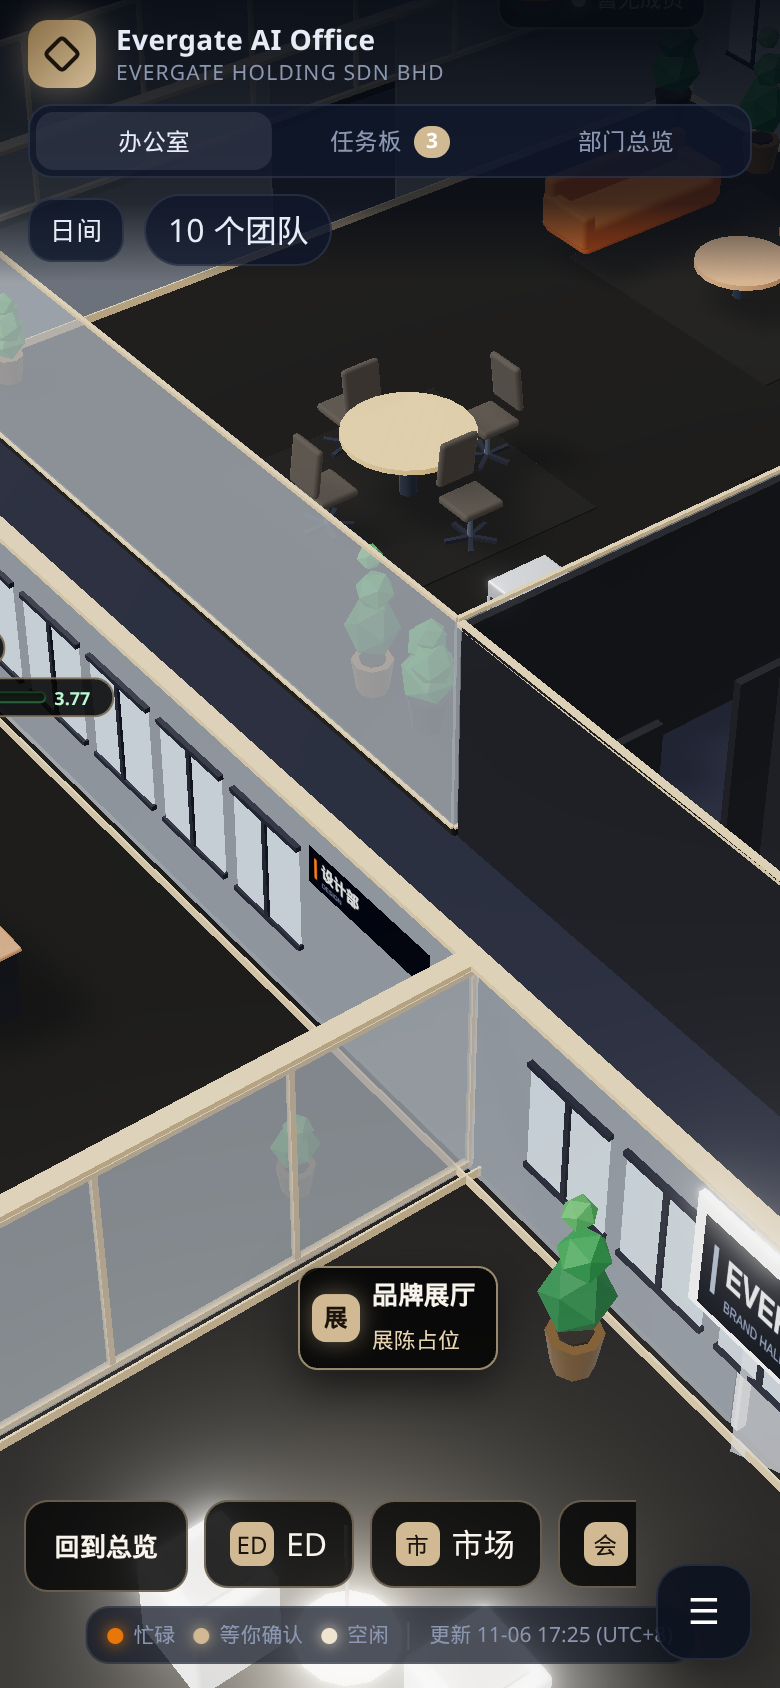
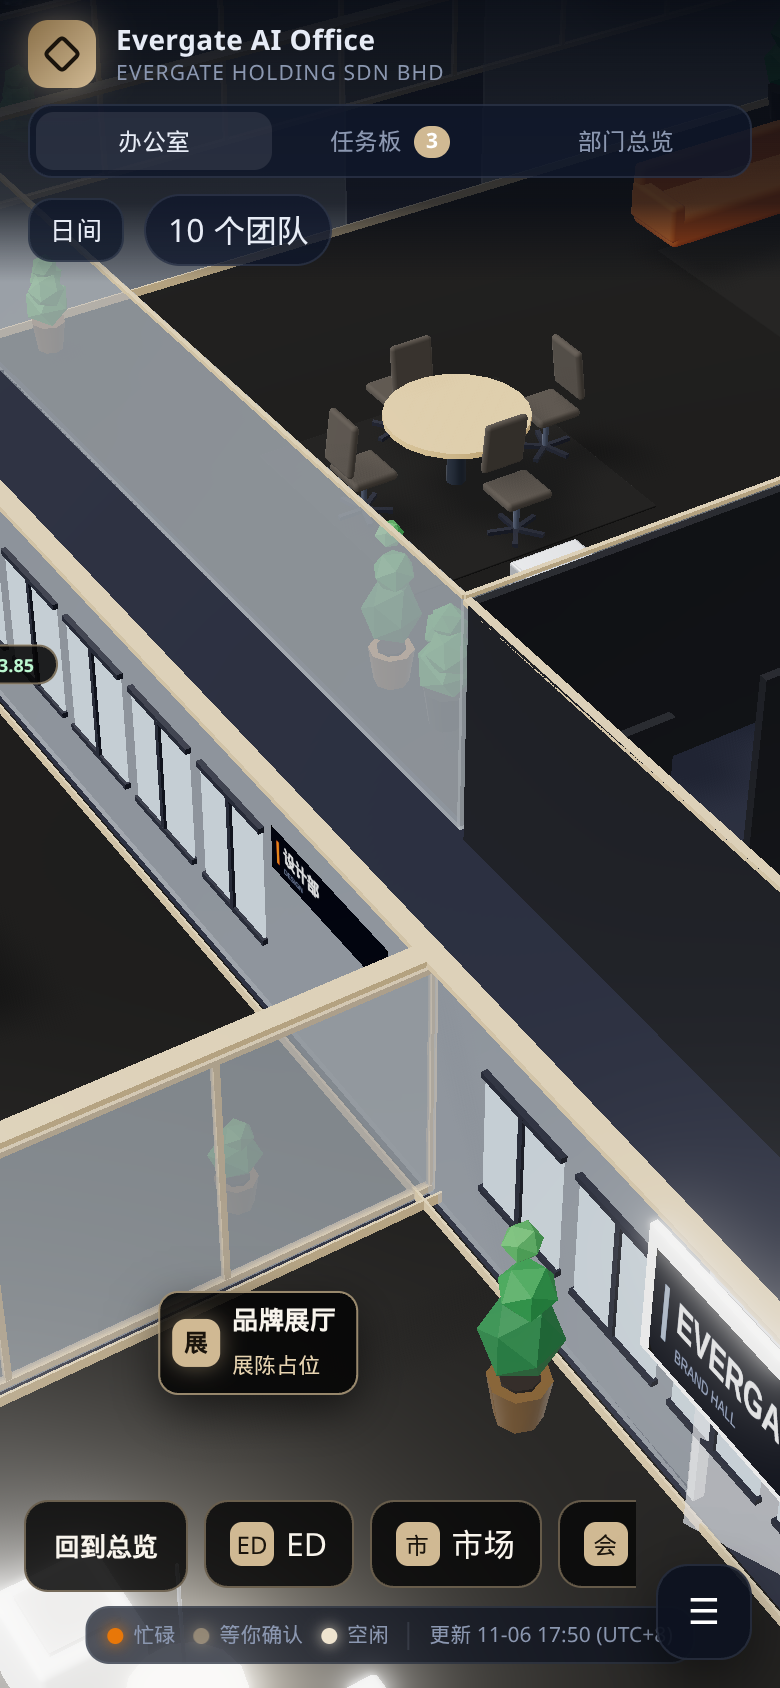
Level the campus floor and move 投资部 north. (#18)
Streets are one dark layer at the same height as the rooms, including the corridor outside 审查部, 市场部's north extension, and the entrance in front of the news wall. 投资部 now occupies the cell north of ED at the same area as 市场部, and the old cell is an empty office labeled 空置. The archive is renamed 资料库: shelves and locked cabinets in the ordinary file room, server racks in the confidential room.

diff --git a/src/scene.js b/src/scene.js
@@ -360,12 +360,10 @@ function buildGreenery(parent) {
     if (def.door === 'west') corners.splice(2, 1);
     corners.forEach(([lx, lz, s, pot, h], i) => add(def.x + lx, def.z + lz, s, (pot + i) % 2, h, FLOOR_H));
   }
-  add(-6.6, 17.5, 1.45, 1, 2);
-  add(6.6, 17.5, 1.3, 0, 2);
-  add(-2.35, 17.9, 0.48, 1, 0);
-  add(2.35, 17.9, 0.48, 0, 0);
-  add(-3.5, 15.4, 0.9, 0, 1);
-  add(3.5, 15.4, 0.9, 1, 1);
+  add(-6.6, 17.5, 1.45, 1, 2, FLOOR_H);
+  add(6.6, 17.5, 1.3, 0, 2, FLOOR_H);
+  add(-4.2, 21.3, 0.9, 0, 1, FLOOR_H);
+  add(4.2, 21.3, 0.9, 1, 1, FLOOR_H);
   const potGeo = new THREE.CylinderGeometry(0.2, 0.15, 0.34, 8);
   const soilGeo = new THREE.CylinderGeometry(0.15, 0.15, 0.05, 8);
   const leafGeo = new THREE.IcosahedronGeometry(0.26, 0);
@@ -681,7 +679,7 @@ function furnishArchive(g, def, dyn, R) {
   box(g, 0.03, 0.012, D - 0.3, splitX, 0.006, 0, trim, { cast: false });
 
   doorFrame(g, splitX, genZ, Math.PI / 2, doorW, 2.05);
-  doorSign(g, splitX - 0.12, 2.15, genZ, '普通资料库', 'GENERAL', -Math.PI / 2);
+  doorSign(g, splitX - 0.12, 2.15, genZ, '普通文件房', 'GENERAL', -Math.PI / 2);
   // Locked confidential door on the south side of the lobby.
   box(g, 0.07, 2.02, doorW - 0.1, splitX - 0.02, 0, secZ, M('#141a28', { r: .38, m: .4 }), { cast: false });
   box(g, 0.09, 2.1, 0.06, splitX - 0.02, 0, secZ - doorW / 2 + 0.02, trim, { cast: false });
@@ -694,7 +692,7 @@ function furnishArchive(g, def, dyn, R) {
   const face = -Math.PI / 2;
   namePlate(g, splitX - 0.12, 1.55, secZ + doorW / 2 + 0.38, 'ED', '连署', face);
   namePlate(g, splitX - 0.12, 1.55, secZ - doorW / 2 - 0.38, '私人助理', '连署', face);
-  doorSign(g, splitX - 0.12, 2.15, secZ, '机密资料库', 'CONFIDENTIAL', face);
+  doorSign(g, splitX - 0.12, 2.15, secZ, '机密文件房', 'CONFIDENTIAL', face);
   confidentialNotice(g, splitX - 0.14, 1.15, secZ, face);
   doorSign(g, -W / 2 + 0.2, 1.85, -1.15, '客厅', 'LOBBY', face);
 
@@ -728,22 +726,24 @@ function furnishArchive(g, def, dyn, R) {
   R.guard = guard;
   facilityTag(guard, '保安', '值守中');
 
-  bookshelf(g, (splitX + W / 2) / 2, -D / 2 + 0.45, 0, Math.min(2.2, W * 0.28), 1.7);
-  bookshelf(g, W / 2 - 0.4, D * 0.25, -Math.PI / 2, Math.min(1.6, D * 0.3), 1.7);
-  fileCabinet(g, (splitX + W / 2) / 2 - 0.8, D / 2 - 0.5, Math.PI, true);
-  fileCabinet(g, (splitX + W / 2) / 2 + 0.8, D / 2 - 0.5, Math.PI, true);
-  const rackX = splitX + (W / 2 - splitX) * 0.55;
-  const slots = [
-    { x: rackX - 0.7, z: -D / 2 + 0.85, ry: 0 },
-    { x: rackX + 0.7, z: -D / 2 + 0.85, ry: 0 },
-    { x: rackX - 0.7, z: D / 2 - 1.35, ry: Math.PI },
-    { x: rackX + 0.7, z: D / 2 - 1.35, ry: Math.PI },
-  ];
+  // 普通文件房: shelves and locked cabinets. The door aisle stays clear.
+  const shelfX = [0.05, 1.7, 3.2];
+  for (const x of shelfX) bookshelf(g, x, -D / 2 + 0.42, 0, 1.45, 1.85);
+  bookshelf(g, W / 2 - 0.38, -2.45, -Math.PI / 2, 1.25, 1.85);
+  bookshelf(g, W / 2 - 0.38, -1.05, -Math.PI / 2, 1.15, 1.85);
+  for (const x of [0.35, 1.25, 2.15, 3.05]) fileCabinet(g, x, -0.48, Math.PI, true);
+  plant(g, W / 2 - 0.55, -0.55, 0.7, 0);
+  // 机密文件房: packed server racks, with a lane in from the lobby door.
+  const slots = [];
+  for (let x = 0.15; x <= 4.15; x += 0.8) {
+    for (let z = 0.7; z <= 3.55; z += 0.95) {
+      if (z < secZ + 0.15 && x < 1.15) continue;
+      slots.push({ x: +x.toFixed(3), z: +z.toFixed(3), ry: z < secZ ? 0 : Math.PI });
+    }
+  }
   R.rackLeds = archiveRacks(g, slots);
-  const glowN = new THREE.PointLight('#7eb6d6', 0.45, 6, 1.6);
-  glowN.position.set(rackX, 2.0, -D * 0.28); g.add(glowN);
-  const glowS = new THREE.PointLight('#7eb6d6', 0.4, 6, 1.6);
-  glowS.position.set(rackX, 2.0, D * 0.28); g.add(glowS);
+  const glowS = new THREE.PointLight('#7eb6d6', 0.45, 7, 1.6);
+  glowS.position.set(2.2, 2.05, secZ); g.add(glowS);
   pendant(g, splitX - 1.4, 0);
   seed = savedSeed;
 }
@@ -890,13 +890,9 @@ let pendantGlow = null;
 function roomShell(root, def, ctx) {
   const g = new THREE.Group(); g.position.set(def.x, FLOOR_H, def.z); root.add(g);
   const { w, d } = def;
-  const slab = new THREE.Mesh(rboxG(w, FLOOR_H, d, 0.05), M(FLOOR_BLACK, { r: .9, m: .04 }));
-  slab.position.y = -FLOOR_H / 2; slab.receiveShadow = true; g.add(slab);
-  const fl = new THREE.Mesh(new THREE.PlaneGeometry(w - 0.12, d - 0.12), M(FLOOR_BLACK, { r: .88, m: .06 }));
-  fl.rotation.x = -Math.PI / 2; fl.position.y = 0.004; fl.receiveShadow = true; g.add(fl);
-  const rail = goldFrame();
-  box(g, w, 0.025, 0.035, 0, 0, d / 2 + 0.01, rail, { cast: false });
-  box(g, 0.035, 0.025, d, w / 2 + 0.01, 0, 0, rail, { cast: false });
+  // Interior finish only, inset and flush with the campus floor. No raised slab.
+  const fl = new THREE.Mesh(new THREE.PlaneGeometry(w - 0.16, d - 0.16), M(FLOOR_BLACK, { r: .88, m: .06 }));
+  fl.rotation.x = -Math.PI / 2; fl.position.y = 0.006; fl.receiveShadow = true; g.add(fl);
 
   const wallMat = smokeGlass();
   const trim = goldFrame();
@@ -981,10 +977,11 @@ function labelEl(def) {
 export const LAYOUT = {
   // North street wall stays; only the outer north wall moves.
   market:   { x: -13.5, z: -14.475, w: 10, d: 13.45, icon: '市', sign: '市场部', signSub: 'MARKETING & RESEARCH' },
-  // Old 法务部 cell, kept as an empty office. Not a department.
-  vacant:   { x: 0, z: -12, w: 11, d: 8.5, icon: '空', color: '#D0B993', minor: true, sign: '空置', signSub: 'RESERVED', label: '空置' },
+  // Former 投资部 cell. Walled office, no department.
+  vacant:   { x: -13.5, z: 0, w: 10, d: 8.5, icon: '空', color: '#D0B993', minor: true, sign: '空置', signSub: 'EMPTY OFFICE', label: '空置' },
   legal:    { x: -30.2, z: -8, w: 17.2, d: 14.0, icon: '法', sign: '法务部', signSub: 'LEGAL' },
-  invest:   { x: -13.5, z: 0,   w: 10, d: 8.5, icon: '投', sign: '投资部', signSub: 'INVESTMENT' },
+  // ED's column. South wall locked at z=-7.75. Area matches 市场部 (10×13.45), not larger.
+  invest:   { x: 0, z: -13.8636, w: 11, d: 12.2273, icon: '投', sign: '投资部', signSub: 'INVESTMENT' },
   ed:       { x: 0,     z: 0,   w: 11, d: 9,   icon: 'ED', walls: 'glass', sign: 'ED 中央指挥室', signSub: 'COMMAND CENTER' },
   // One rectangle: old 信息部 + old 策划部 cell + the E-W street in this column only.
   info:     { x: 13.5,  z: -6.025, w: 10, d: 20.45, icon: '信', sign: '信息部', signSub: 'AI NEWS & INFO' },
@@ -992,7 +989,7 @@ export const LAYOUT = {
   logistics:{ x: 0,     z: 13.875, w: 11, d: 12.25, icon: '物', sign: '物流部', signSub: 'LOGISTICS' },
   privfin:  { x: 13.5,  z: 12,  w: 10, d: 8.5, icon: '私', walls: 'glass', private: true, sign: '私人助理', signSub: 'PRIVATE · 仅 EDWARD' },
   lounge:   { x: 25.6, z: 0,   w: 9.4, d: 11, icon: '休', color: '#E87708', door: 'west', sign: '休息室', signSub: 'LOUNGE', label: '休息室' },
-  archive:  { x: 25.6, z: -12, w: 9.4, d: 8.2, icon: '档', color: '#D0B993', door: 'west', sign: '档案室', signSub: 'ARCHIVE', label: '档案室' },
+  archive:  { x: 25.6, z: -12, w: 9.4, d: 8.2, icon: '资', color: '#D0B993', door: 'west', sign: '资料库', signSub: 'RECORDS', label: '资料库' },
   // Shares 会计部's south wall. Separate room, entered from the east corridor.
   review:   { x: -13.5, z: 19.55, w: 10, d: 6.6, icon: '审', color: '#D0B993', sign: '审查部', signSub: 'REVIEW', label: '审查部' },
   meeting:  { x: -28, z: 8, w: 13.2, d: 11.8, icon: '议', color: '#D0B993', sign: '会议室', signSub: 'MEETING', label: '会议室' },
@@ -1018,11 +1015,11 @@ export function buildOffice(scene, teams) {
   const ground = new THREE.Mesh(new THREE.PlaneGeometry(140, 140), new THREE.MeshStandardMaterial({ map: ft, roughness: .9, color: '#ffffff' }));
   ground.rotation.x = -Math.PI / 2; ground.position.y = -0.08; ground.receiveShadow = true; root.add(ground);
   // One campus slab under every room and corridor. Later wings are not separate pads.
-  const campusW = 88, campusD = 54, campusX = 1.2, campusZ = 2.2;
-  const campus = new THREE.Mesh(rboxG(campusW, 0.12, campusD, 0.08), M('#161d30', { r: .7 }));
-  campus.position.set(campusX, -0.04, campusZ); campus.receiveShadow = true; campus.userData.ground = true; root.add(campus);
+  const campusW = 88, campusD = 54, campusX = 1.2, campusZ = 2.2, campusH = 0.16;
+  const campus = new THREE.Mesh(rboxG(campusW, campusH, campusD, 0.08), M('#161d30', { r: .7 }));
+  campus.position.set(campusX, FLOOR_H - campusH / 2, campusZ); campus.receiveShadow = true; campus.userData.ground = true; root.add(campus);
   const edge = B(GOLD, { op: .32 });
-  const edgeY = 0.025;
+  const edgeY = FLOOR_H + 0.012;
   for (const [w, d, x, z] of [
     [campusW, .05, campusX, campusZ + campusD / 2],
     [campusW, .05, campusX, campusZ - campusD / 2],
@@ -1034,41 +1031,44 @@ export function buildOffice(scene, teams) {
   const sky = new THREE.Mesh(new THREE.PlaneGeometry(150, 64), new THREE.MeshBasicMaterial({ map: skylineTexture() }));
   sky.position.set(0, 16, -34); root.add(sky);
   const sky2 = sky.clone(); sky2.position.set(-70, 26, 8); sky2.rotation.y = Math.PI / 2; root.add(sky2);
-  // south gate on the central axis, due south of 物流部: wordmark above the news band
+  // Entry corridor is width W = 3 south of 物流部. The sign sits on that corridor, not in the middle of it.
+  const newsFace = 23;
+  const newsWallZ = newsFace + 0.09;
   const logo = new THREE.Mesh(new THREE.PlaneGeometry(6.6, 1.85), new THREE.MeshBasicMaterial({ map: logoTexture() }));
-  logo.position.set(0, 2.55, 23.5); root.add(logo);
-  box(staticG, 8.4, 3.7, 0.18, 0, 0, 23.25, M('#121a28', { r: .6 }), { cast: false });
-  box(staticG, 2.4, 1.05, 0.7, 0, 0, 20.7, M('#d9c7a6', { r: .55 }), { round: 0.04 });
-  box(staticG, 2.2, 0.06, 0.55, 0, 1.05, 20.7, M('#f4efe6', { r: .4 }), { cast: false });
-  cyl(staticG, 0.12, 0.1, 0.22, -0.7, 1.11, 20.7, M('#111827', { m: .4 }), 10, { cast: false });
-  plant(staticG, -4.6, 22.3, 1.25, 2); plant(staticG, 4.6, 22.3, 1.15, 0);
+  logo.position.set(0, 2.55, newsWallZ + 0.25); root.add(logo);
+  box(staticG, 8.4, 3.7, 0.18, 0, 0, newsWallZ, M('#121a28', { r: .6 }), { cast: false });
+  const plinthZ = newsFace - 0.45;
+  box(staticG, 2.4, 1.05, 0.7, 0, 0, plinthZ, M('#d9c7a6', { r: .55 }), { round: 0.04 });
+  box(staticG, 2.2, 0.06, 0.55, 0, 1.05, plinthZ, M('#f4efe6', { r: .4 }), { cast: false });
+  cyl(staticG, 0.12, 0.1, 0.22, -0.7, 1.11, plinthZ, M('#111827', { m: .4 }), 10, { cast: false });
+  plant(staticG, -4.6, newsFace - 0.85, 1.25, 2, FLOOR_H); plant(staticG, 4.6, newsFace - 0.85, 1.15, 0, FLOOR_H);
   const newsCanvas = document.createElement('canvas'); newsCanvas.width = 512; newsCanvas.height = 512;
   const newsCtx = newsCanvas.getContext('2d');
   const newsMap = new THREE.CanvasTexture(newsCanvas); newsMap.colorSpace = THREE.SRGBColorSpace; newsMap.wrapS = newsMap.wrapT = THREE.RepeatWrapping;
   const newsScreen = new THREE.Mesh(new THREE.PlaneGeometry(4.6, 1.15), new THREE.MeshBasicMaterial({ map: newsMap, toneMapped: false }));
-  newsScreen.position.set(0, 1.05, 23.42); root.add(newsScreen);
-  box(staticG, 4.8, 1.35, 0.08, 0, 0.38, 23.32, M('#0b0f19'), { cast: false });
+  newsScreen.position.set(0, 1.05, newsWallZ + 0.17); root.add(newsScreen);
+  box(staticG, 4.8, 1.35, 0.08, 0, 0.38, newsWallZ + 0.07, M('#0b0f19'), { cast: false });
   const newsHit = new THREE.Mesh(new THREE.BoxGeometry(5.0, 1.6, 0.4), new THREE.MeshBasicMaterial({ visible: false }));
-  newsHit.position.set(0, 1.15, 23.45); newsHit.userData.room = 'news'; root.add(newsHit);
-  // corridors: dark aisles with dashed glowing lines
-  const aisleMat = new THREE.MeshStandardMaterial({ map: concreteTexture(), roughness: 0.86, metalness: 0.04, color: '#c5ccd4' });
-  const aisle = aisleMat;
+  newsHit.position.set(0, 1.15, newsWallZ + 0.2); newsHit.userData.room = 'news'; root.add(newsHit);
+  // One floor already covers every street. Dashes mark the core cross, continued past 审查部 and 市场部.
   const dashM = B(GOLD, { op: .28 });
   const dashG = boxG(0.5, 0.012, 0.06);
+  const dashY = FLOOR_H + 0.012;
   for (const z of [-6, 6]) {
-    // the north aisle stops before 信息部, which now fills the old 规划部 bay
-    const span = z === -6 ? 28 : 42;
-    const cx = z === -6 ? -7 : 0;
-    const a = new THREE.Mesh(boxG(span, 0.02, 2.6), aisle); a.position.set(cx, 0.012, z); a.receiveShadow = true; staticG.add(a);
     const x1 = z === -6 ? 6.5 : 18;
-    for (let x = -20; x <= x1; x += 1.2) { const dm = new THREE.Mesh(dashG, dashM); dm.position.set(x, 0.03, z); root.add(dm); }
+    for (let x = -20; x <= x1; x += 1.2) { const dm = new THREE.Mesh(dashG, dashM); dm.position.set(x, dashY, z); root.add(dm); }
   }
-  for (const x of [-6.75, 6.75]) {
-    const a = new THREE.Mesh(boxG(2.4, 0.021, 38), aisle); a.position.set(x, 0.012, 0); a.receiveShadow = true; staticG.add(a);
-    for (let z = -18; z <= 18; z += 1.2) { if (Math.abs(Math.abs(z) - 6) < 1.3) continue; const dm = new THREE.Mesh(dashG, dashM); dm.rotation.y = Math.PI / 2; dm.position.set(x, 0.03, z); root.add(dm); }
+  for (const [x, z0, z1] of [[-7, -20.4, 24.2], [7, -19.2, 16.2]]) {
+    for (let z = z0; z <= z1; z += 1.2) {
+      if (Math.abs(Math.abs(z) - 6) < 1.3) continue;
+      const dm = new THREE.Mesh(dashG, dashM); dm.rotation.y = Math.PI / 2; dm.position.set(x, dashY, z); root.add(dm);
+    }
   }
-  // corridor plants & benches
-  for (const [x, z] of [[-20.5, -6], [20.5, -6], [-20.5, 6], [20.5, 6], [-6.75, -19], [6.75, -19], [-6.75, 19], [6.75, 19]]) plant(staticG, x, z, 1.1, 2);
+  for (let z = 20.5; z <= 22.4; z += 1.2) {
+    const dm = new THREE.Mesh(dashG, dashM); dm.rotation.y = Math.PI / 2; dm.position.set(0, dashY, z); root.add(dm);
+  }
+  // corridor plants
+  for (const [x, z] of [[-20.5, -6], [20.5, -6], [-20.5, 6], [20.5, 6], [-7, -19], [7, -19], [-7, 21], [7, 19]]) plant(staticG, x, z, 1.1, 2, FLOOR_H);
   buildGreenery(staticG);
 
   /* rooms */
@@ -1091,7 +1091,6 @@ export function buildOffice(scene, teams) {
     const lo = new CSS2DObject(el);
     if (def.id === 'ed') lo.position.set(def.x - 0.2, 5.6, def.z - def.d * 0.34);
     // 法务部 sits just north of ED; lift its plate so the member line clears ED's name.
-    else if (def.id === 'vacant') lo.position.set(def.x, 3.4, def.z);
     else lo.position.set(def.x, def.minor ? 3.15 : 4.15, def.z - def.d * 0.1);
     // Meeting's status line is long; hang it toward the left edge so it misses 投资部.
     const anchorX = def.id === 'meeting' ? 0.92 : def.id === 'archive' ? 0.32 : def.x > 18 ? 0.92 : def.x < -18 ? 0.08 : 0.5;
@@ -1230,8 +1229,8 @@ export function buildOffice(scene, teams) {
   const newsLabelEl = document.createElement('div');
   newsLabelEl.className = 'rlabel'; newsLabelEl.dataset.room = 'news'; newsLabelEl.style.setProperty('--c', GOLD);
   newsLabelEl.innerHTML = `<div class="ic">讯</div><div><div class="nm">新闻墙</div><div class="st"><i class="dot idle"></i><span>点击查看</span></div></div>`;
-  const newsLabel = new CSS2DObject(newsLabelEl); newsLabel.position.set(0, 3.7, 23.7); newsLabel.center.set(0.5, 1); root.add(newsLabel);
-  rooms.news = { id: 'news', hit: newsHit, labelEl: newsLabelEl, label: newsLabel, center: new THREE.Vector3(0, 0, 23.3), def: { icon: '讯', color: GOLD } };
+  const newsLabel = new CSS2DObject(newsLabelEl); newsLabel.position.set(0, 3.7, newsWallZ + 0.55); newsLabel.center.set(0.5, 1); root.add(newsLabel);
+  rooms.news = { id: 'news', hit: newsHit, labelEl: newsLabelEl, label: newsLabel, center: new THREE.Vector3(0, 0, newsWallZ), def: { icon: '讯', color: GOLD } };
   let newsLines = ['信息部简报将在此滚动显示'];
   function drawNews(shift) {
     const ctx = newsCtx; ctx.clearRect(0, 0, 512, 512); ctx.fillStyle = '#07111f'; ctx.fillRect(0, 0, 512, 512);

diff --git a/src/main.js b/src/main.js
@@ -432,18 +432,18 @@ function renderPanel(id) {
         }).join('')
         : '<div class="empty">暂无进出记录。进出须登记姓名与信息（马来西亚时间）。</div>';
       const rule = secret.retrievalRule ? `<div class="card rule">${esc(secret.retrievalRule)}</div><div class="card">入库归档不是调取，不需要连署。</div>` : '';
-      body.innerHTML = `<div class="ph" style="--c:#D0B993"><div class="ic">档</div><div><h3>${esc(A.name || '档案室')}</h3><div class="sub">客厅 · 普通资料库 · 机密资料库</div></div></div>
+      body.innerHTML = `<div class="ph" style="--c:#D0B993"><div class="ic">资</div><div><h3>${esc(A.name || '资料库')}</h3><div class="sub">客厅 · 普通文件房 · 机密文件房</div></div></div>
         <div class="sec"><h4>${esc(lobby.name || '客厅')}</h4><div class="card tlist"><div class="titem"><span class="chip confirm">${esc(guard.name || '保安')}</span><div>${esc(guard.duty || '24小时值守')}</div></div></div></div>
-        <div class="sec"><h4>${esc(general.name || '普通资料库')}</h4><div class="card">${esc(general.description || '')}</div></div>
+        <div class="sec"><h4>${esc(general.name || '普通文件房')}</h4><div class="card">${esc(general.description || '')}</div></div>
         ${catList(general.categories)}
-        <div class="sec"><h4>${esc(secret.name || '机密资料库')}</h4><div class="card">${esc(secret.description || '')}</div>${rule}</div>
+        <div class="sec"><h4>${esc(secret.name || '机密文件房')}</h4><div class="card">${esc(secret.description || '')}</div>${rule}</div>
         ${catList(secret.categories)}
         <div class="sec"><h4>进出登记</h4><div class="card tlist">${logBody}</div></div>
         <div class="sec">${link}</div>`;
       return;
     }
     const cats = catList(A.categories);
-    body.innerHTML = `<div class="ph" style="--c:#D0B993"><div class="ic">档</div><div><h3>${esc(A.name || '档案室')}</h3><div class="sub">分类目录 · 需登录 Google 查看原件</div></div></div>${cats}<div class="sec">${link}</div>`;
+    body.innerHTML = `<div class="ph" style="--c:#D0B993"><div class="ic">资</div><div><h3>${esc(A.name || '资料库')}</h3><div class="sub">分类目录 · 需登录 Google 查看原件</div></div></div>${cats}<div class="sec">${link}</div>`;
     return;
   }
   if (id === 'meeting') {
@@ -471,7 +471,7 @@ function renderPanel(id) {
     return;
   }
   if (id === 'vacant') {
-    body.innerHTML = `<div class="ph" style="--c:#D0B993"><div class="ic">空</div><div><h3>空置</h3><div class="sub">预留办公室 · 暂不设部门</div></div></div><div class="sec"><div class="card empty">这间房留着，还没有分配部门。</div></div>`;
+    body.innerHTML = `<div class="ph" style="--c:#D0B993"><div class="ic">空</div><div><h3>空置</h3><div class="sub">空办公室 · 暂未分配部门</div></div></div><div class="sec"><div class="card empty">这间房暂时空着，还没有分配部门。</div></div>`;
     return;
   }
   if (!t) {
@@ -734,7 +734,7 @@ function sharedSpaceCard() {
   const sel = (id) => state.selected === id ? ' sel' : '';
   const extra = [L.meeting, L.lastMeeting].filter(Boolean).map(s => `<div class="dnone">${esc(s)}</div>`).join('');
   const lounge = `<button type="button" class="dcard${sel('lounge')}" data-team="lounge" style="--c:#E87708"><div class="dtop"><span class="ic">休</span><div><div class="nm">${esc(L.name || '休息室')}</div><div class="sub">共享空间 · ${n} 人在此</div></div></div>${extra}</button>`;
-  const archive = `<button type="button" class="dcard${sel('archive')}" data-team="archive" style="--c:#D0B993"><div class="dtop"><span class="ic">档</span><div><div class="nm">${esc(DATA.archive?.name || '档案室')}</div><div class="sub">客厅 · 普通资料库 · 机密资料库</div></div></div></button>`;
+  const archive = `<button type="button" class="dcard${sel('archive')}" data-team="archive" style="--c:#D0B993"><div class="dtop"><span class="ic">资</span><div><div class="nm">${esc(DATA.archive?.name || '资料库')}</div><div class="sub">客厅 · 普通文件房 · 机密文件房</div></div></div></button>`;
   const showroom = `<button type="button" class="dcard${sel('showroom')}" data-team="showroom" style="--c:#D0B993"><div class="dtop"><span class="ic">展</span><div><div class="nm">品牌展厅</div><div class="sub">展陈占位 · 非部门</div></div></div></button>`;
   const meeting = `<button type="button" class="dcard${sel('meeting')}" data-team="meeting" style="--c:#D0B993"><div class="dtop"><span class="ic">议</span><div><div class="nm">会议室</div><div class="sub">${esc(nextMeetingText(klNow()))}</div></div></div></button>`;
   const news = `<button type="button" class="dcard${sel('news')}" data-team="news" style="--c:#D0B993"><div class="dtop"><span class="ic">讯</span><div><div class="nm">新闻墙</div><div class="sub">大厅 · 信息部简报</div></div></div></button>`;

diff --git a/public/sw.js b/public/sw.js
@@ -1,5 +1,5 @@
 /* Bump this name to drop previously cached builds on the next visit. */
-const CACHE = 'evergate-office-v44';
+const CACHE = 'evergate-office-v45';
 
 self.addEventListener('install', () => {
   self.skipWaiting();
